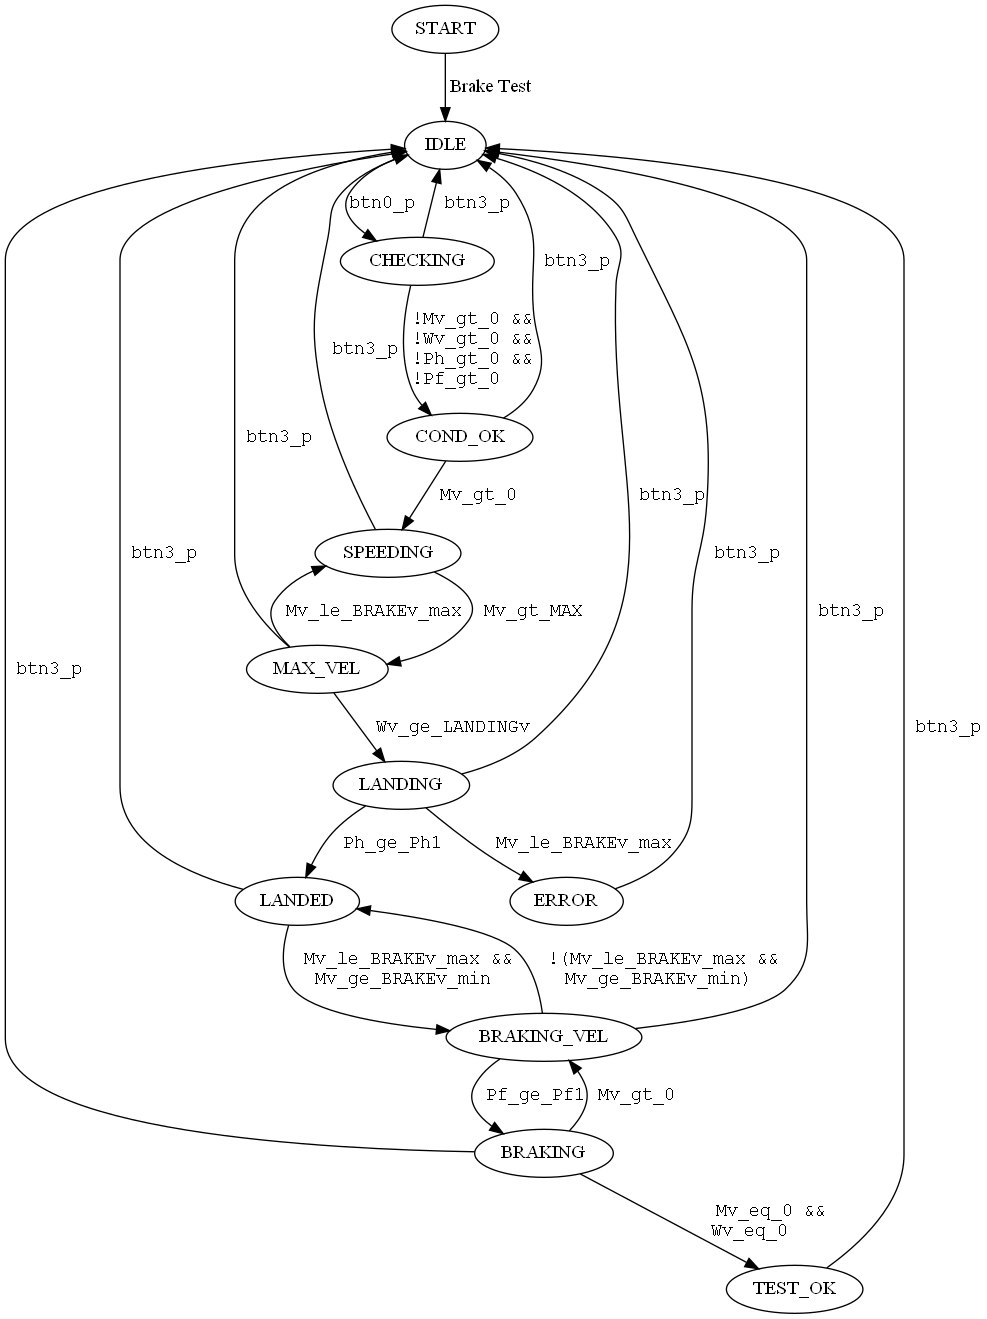
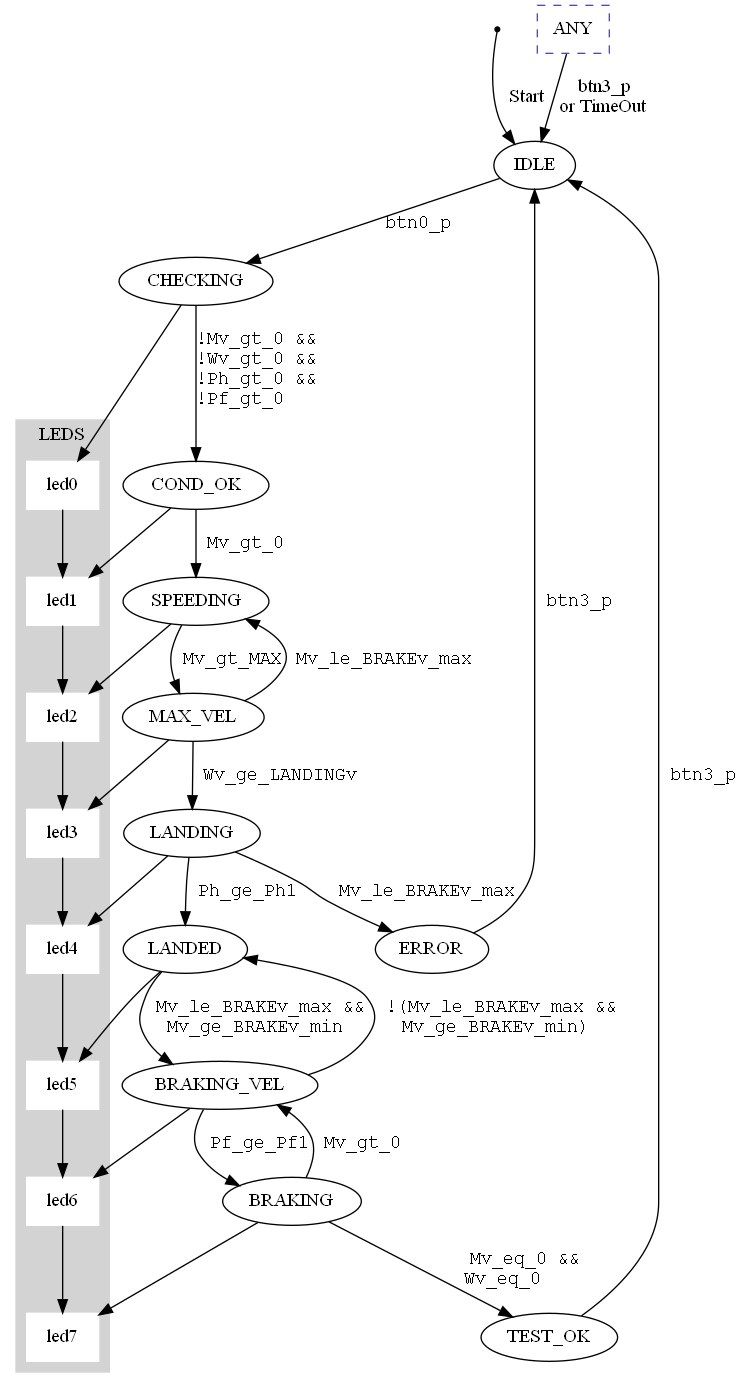
Added ST_MONITORING State & transitions. Updated MENU MAIN. Added RELAY controller & state managed relays (for lamps)

diff --git a/BankLeds.cpp b/BankLeds.cpp
@@ -8,19 +8,19 @@
 #include "BankLeds.h"
 
 BankLeds::BankLeds() {
-	led[0] = new SuperLed(LED0, 100, 400, 0);
-	led[1] = new SuperLed(LED1, 100, 400, 0);
-	led[2] = new SuperLed(LED2, 100, 400, 0);
-	led[3] = new SuperLed(LED3, 100, 400, 0);
-	led[4] = new SuperLed(LED4, 100, 400, 0);
-	led[5] = new SuperLed(LED5, 100, 400, 0);
-	led[6] = new SuperLed(LED6, 100, 400, 0);
-	led[7] = new SuperLed(LED7, 100, 400, 0);
+	relay[0] = new SuperLed(RELAY0, 400, 400, 0);
+	relay[1] = new SuperLed(RELAY1, 400, 400, 0);
+	relay[2] = new SuperLed(RELAY2, 400, 400, 0);
+	relay[3] = new SuperLed(RELAY3, 400, 400, 0);
+	relay[4] = new SuperLed(RELAY4, 400, 400, 0);
+	relay[5] = new SuperLed(RELAY5, 400, 400, 0);
+	relay[6] = new SuperLed(RELAY6, 400, 400, 0);
+	relay[7] = new SuperLed(RELAY7, 400, 400, 0);
 
 	buzz = new SuperLed(BUZZ, 60, 1, 0);
 	buzz->setCycles(1);
 
-	led7s = new MyLed7(22, 24, 26, 28, 30, 32, 34, 36);
+	led7s = new MyLed7(SEGM0, SEGM1, SEGM2, SEGM3, SEGM4, SEGM5, SEGM6, SEGM7);
 }
 
 void BankLeds::beep(unsigned long ton, unsigned long toff, unsigned long nCycles) {
@@ -28,8 +28,8 @@ void BankLeds::beep(unsigned long ton, unsigned long toff, unsigned long nCycles
 }
 
 void BankLeds::update() {
-	for (int ledIndex = 0; ledIndex < 8; ++ledIndex) {
-		led[ledIndex]->update();
+	for (int relayIndex = 0; relayIndex < 8; ++relayIndex) {
+		relay[relayIndex]->update();
 	}
 
 	buzz->update();
@@ -37,24 +37,24 @@ void BankLeds::update() {
 	led7s->update();
 }
 
-void BankLeds::ledOnAll(int on = HIGH) {
-	for (int ledIndex = 0; ledIndex < 8; ++ledIndex) {
-		led[ledIndex]->set(on);
+void BankLeds::relayOnAll(int on = HIGH) {
+	for (int relayIndex = 0; relayIndex < 8; ++relayIndex) {
+		relay[relayIndex]->set(on);
 	}
 }
 
-void BankLeds::ledOffAll() {
-	ledOnAll(LOW);
+void BankLeds::relayOffAll() {
+	relayOnAll(LOW);
 }
 
-void BankLeds::ledStartAll() {
-	for (int ledIndex = 0; ledIndex < 8; ++ledIndex) {
-		led[ledIndex]->start();
+void BankLeds::relayStartAll() {
+	for (int relayIndex = 0; relayIndex < 8; ++relayIndex) {
+		relay[relayIndex]->start();
 	}
 }
 
-void BankLeds::ledStopAll() {
-	for (int ledIndex = 0; ledIndex < 8; ++ledIndex) {
-		led[ledIndex]->stop();
+void BankLeds::relayStopAll() {
+	for (int relayIndex = 0; relayIndex < 8; ++relayIndex) {
+		relay[relayIndex]->stop();
 	}
 }

diff --git a/BankLeds.h b/BankLeds.h
@@ -11,14 +11,23 @@
 #include "SuperLed.h"
 #include "MyLed7.h"
 
-#define LED0	22
-#define LED1	24
-#define LED2	26
-#define LED3	28
-#define LED4	30
-#define LED5	32
-#define LED6	34
-#define LED7	36
+#define SEGM0	22
+#define SEGM1	24
+#define SEGM2	26
+#define SEGM3	28
+#define SEGM4	30
+#define SEGM5	32
+#define SEGM6	34
+#define SEGM7	36
+
+#define RELAY0	2
+#define RELAY1	3
+#define RELAY2	4
+#define RELAY3	5
+#define RELAY4	6
+#define RELAY5	7
+#define RELAY6	8
+#define RELAY7	9
 
 #define BUZZ	38
 
@@ -26,7 +35,7 @@ class BankLeds {
 
 private:
 
-	SuperLed *led[8];
+	SuperLed *relay[8];
 	SuperLed *buzz;
 
 	MyLed7 *led7s;
@@ -42,29 +51,29 @@ public:
 
 	void beep(unsigned long ton, unsigned long toff, unsigned long nCycles);
 
-	void ledStart(int ledIndex) {
-		led[ledIndex]->start();
+	void relayStart(int relayIndex) {
+		relay[relayIndex]->start();
 	}
 
-	void ledStop(int ledIndex) {
-		led[ledIndex]->stop();
+	void relayStop(int relayIndex) {
+		relay[relayIndex]->stop();
 	}
 
-	void ledOff(int ledIndex) {
-		led[ledIndex]->set(LOW);
+	void relayOff(int relayIndex) {
+		relay[relayIndex]->set(LOW);
 	}
 
-	void ledOn(int ledIndex) {
-		led[ledIndex]->set(HIGH);
+	void relayOn(int relayIndex) {
+		relay[relayIndex]->set(HIGH);
 	}
 
-	void ledOnAll(int = HIGH);
+	void relayOnAll(int = HIGH);
 
-	void ledOffAll();
+	void relayOffAll();
 
-	void ledStartAll();
+	void relayStartAll();
 
-	void ledStopAll();
+	void relayStopAll();
 
 	void display(int symbol, bool dp = false) {
 		led7s->noBlink();

diff --git a/sloeber.ino.cpp b/sloeber.ino.cpp
@@ -2,7 +2,7 @@
 //This is a automatic generated file
 //Please do not modify this file
 //If you touch this file your change will be overwritten during the next build
-//This file has been generated on 2021-09-14 13:53:11
+//This file has been generated on 2021-09-16 10:10:11
 
 #include "Arduino.h"
 #define fadea
@@ -44,9 +44,11 @@ extern MyTasker* tasker;
 extern const char* cmdTable[];
 extern const char* cmdTable[];
 extern const char* cmdTable[];
-extern bool cmd_menu_sent;
-extern uint16_t Mv;
 extern LiquidCrystal lcd;
+extern uint16_t Mv;
+extern bool cmd_menu_sent;
+extern bool ev_key[];
+extern bool ev_cmd[];
 #include "FSM.h"
 #include "MENU.h"
 

diff --git a/Bank.cpp b/Bank.cpp
@@ -21,16 +21,6 @@ void Bank::setup() {
 	pinMode(LED_BUILTIN, OUTPUT);
 	digitalWrite(LED_BUILTIN, LOW);
 
-	relay[0] = RELAY0;
-	relay[1] = RELAY1;
-	relay[2] = RELAY2;
-	relay[3] = RELAY3;
-
-	for (int releIndex = RELAY0; releIndex <= RELAY3; ++releIndex) {
-		pinMode(releIndex, OUTPUT);
-		digitalWrite(releIndex, LOW);
-	}
-
 	Serial.println(F("\n\nBrake Test"));
 }
 
@@ -79,8 +69,3 @@ void Bank::eePreset() {
 	EEpromPlus::EEshow(32, 1, 'm');
 }
 
-bool Bank::relayToggle(int index) {
-	bool newState = !digitalRead(relay[index]);
-	digitalWrite(relay[index], newState );
-	return newState;
-}

diff --git a/MENU.h b/MENU.h
@@ -10,6 +10,7 @@
 #define MENU_H_
 
 extern KeyPadRX *keyPadRx;
+extern bool ev_key[], ev_cmd[];
 
 /**
  * # Estados para la FSM de Menu del sistema
@@ -44,9 +45,6 @@ int st_menu;
 #define MENU_TRANSITIONS	35
 
 StateMachine MENU(ST_MENU_COUNT, MENU_TRANSITIONS);
-
-bool ev_key[16] = { false };
-bool ev_cmd[10] = { false };
 
 bool updateParam(double &param, uint16_t daqValue) {
 	if (keyPadRx->dataReady()) {	// espera comando terminado en #

diff --git a/Bank.h b/Bank.h
@@ -9,11 +9,6 @@
 #define BANK_H_
 
 
-#define RELAY0 	2
-#define RELAY1	3
-#define RELAY2	4
-#define RELAY3	5
-
 class Bank {
 private:
 	struct TestParms {
@@ -53,7 +48,6 @@ public:
 
 	void eePreset();
 
-	bool relayToggle(int relayIndex);
 };
 
 #endif /* BANK_H_ */
